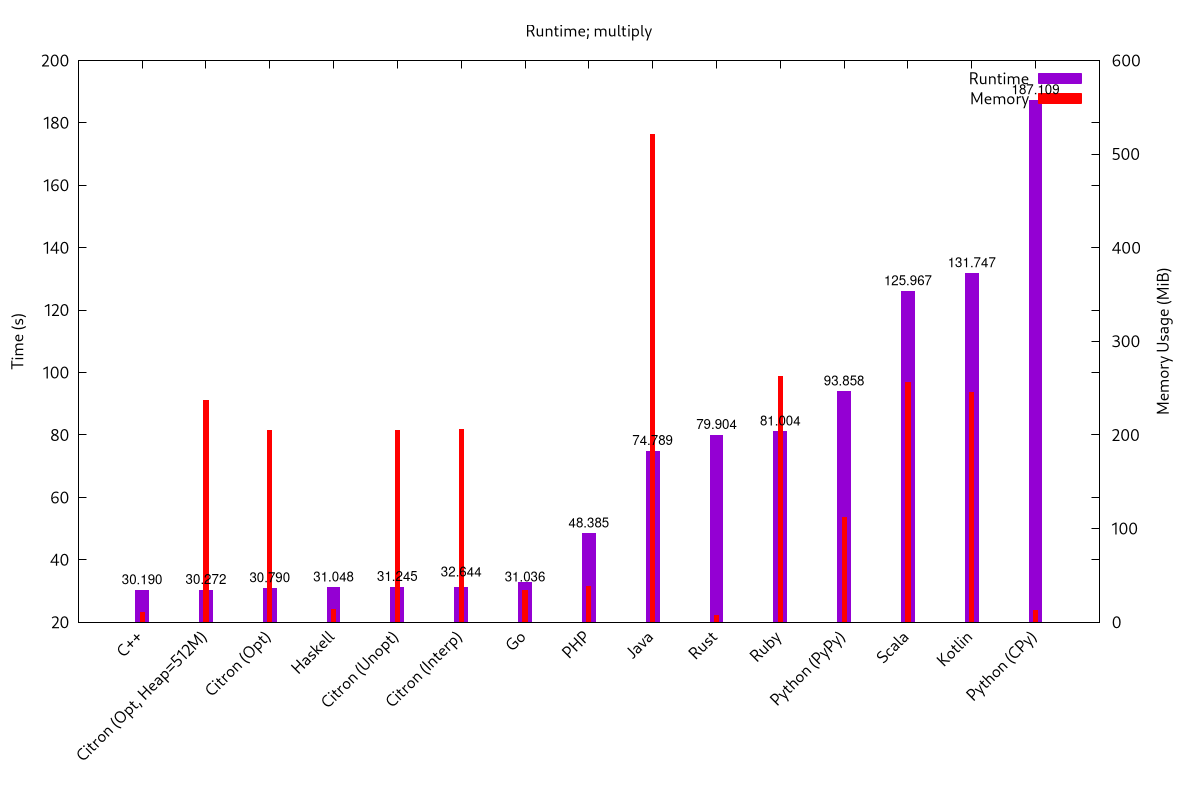
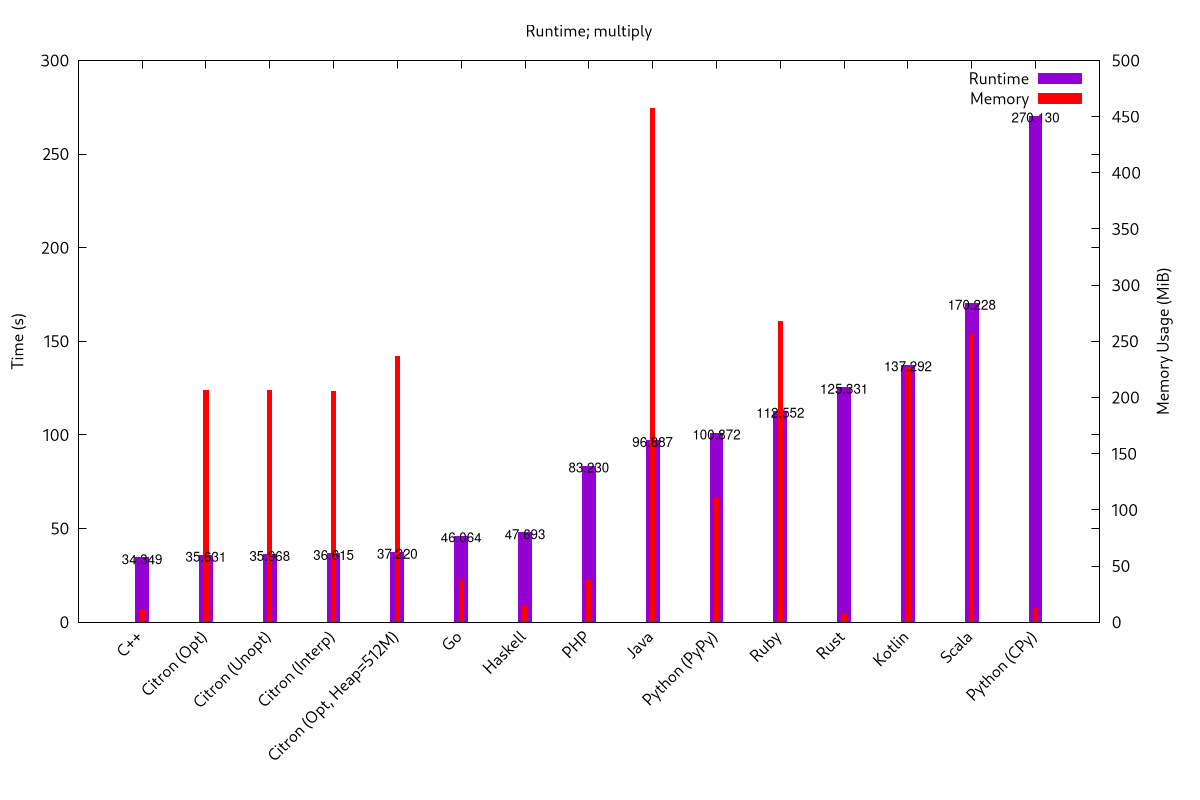
Regenerate plots

diff --git a/run.py b/run.py
@@ -3,9 +3,12 @@ from subprocess import call, Popen, DEVNULL
 import os
 from time import sleep, time
 import psutil
+from multiprocessing import Pool
+from functools import reduce
 
 SKIP=1
 RUN=2
+POOL_COUNT=1
 
 all_tests = {
     "multiply": {
@@ -140,26 +143,33 @@ def compile_suite(suite, name):
 
     return failed
 
+def run_one(x):
+    lang, spec = x
+    if not do_lang(lang):
+        return {}
+    print("-- Execute/Start", lang)
+    p = Process(spec)
+    p.run_and_wait()
+    print("-- Execute/End", lang)
+    return {
+        lang: {
+            "time": p.end - p.start,
+            "memory": p.max_rss,
+        }
+    }
+
 def run_suite(suite, name):
     if "execute" not in suite:
         return {}
 
-    results = {}
     print("-- Executing suite", name)
 
     os.chdir(f'{name}/build')
 
-    for lang, spec in suite["execute"].items():
-        if not do_lang(lang):
-            continue
-        print("-- Execute/Start", lang)
-        p = Process(spec)
-        p.run_and_wait()
-        results[lang] = {
-            "time": p.end - p.start,
-            "memory": p.max_rss,
-        }
-        print("-- Execute/End", lang)
+    results = {}
+    with Pool(POOL_COUNT) as p:
+        results = reduce(lambda acc,x: [acc.update(x), acc][1],
+                         p.map(run_one, suite["execute"].items()))
 
     os.chdir('../..')
     return results
@@ -228,5 +238,10 @@ if __name__ == '__main__':
         for name, value in os.environ.items():
             if name.lower().startswith("bench_"):
                 env_specifics[name.lower()[len("bench_"):]] = value.lower() in ("true", "yes", "1")
+
+    try:
+        POOL_COUNT = int(os.environ.get("BENCH_JOBS", "1"))
+    except:
+        POOL_COUNT = None
 
     run_all_tests()

diff --git a/README.md b/README.md
@@ -3,12 +3,16 @@
 + _A plot_ (Multiply: calc/print of 500000!)
 ![#](./plots/multiply.png)
 
+Note that these aren't necessarily representative of the languages used, but rather what _I_ could write in them without spending too long thinking about it.
+
 ## Running it
 To run all defined benchmarks, just run `python run.py`, which will dump the plot into `plots/`, and the results into `data.dat` and `memories`.
 
 To skip some specific benchmarks, define the env vars `BENCH_OVERRIDE=SKIP` and `BENCH_<language>=TRUE` (or `BENCH_<mode>=TRUE` to skip a specific mode)
 
 And to run only some specific benchmarks, set `BENCH_OVERRIDE=RUN` instead of `SKIP`.
+
+To run N benchmarks in parallel, set `BENCH_JOB=N`, or to anything that's not a number to make it use all CPUs (as defined by `os.cpu_count()`).
 
 ### Think my code is junk, or unfairly slow?
  Fix it yourself (and throw me a PR)
